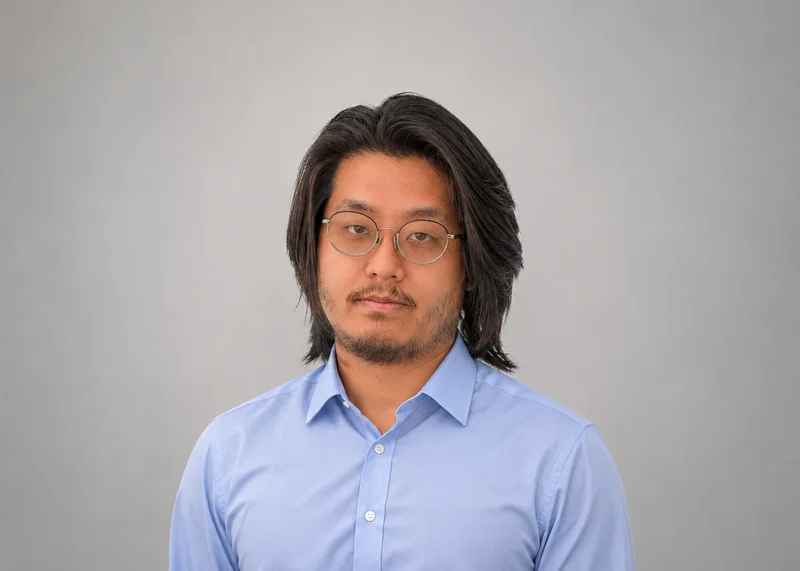
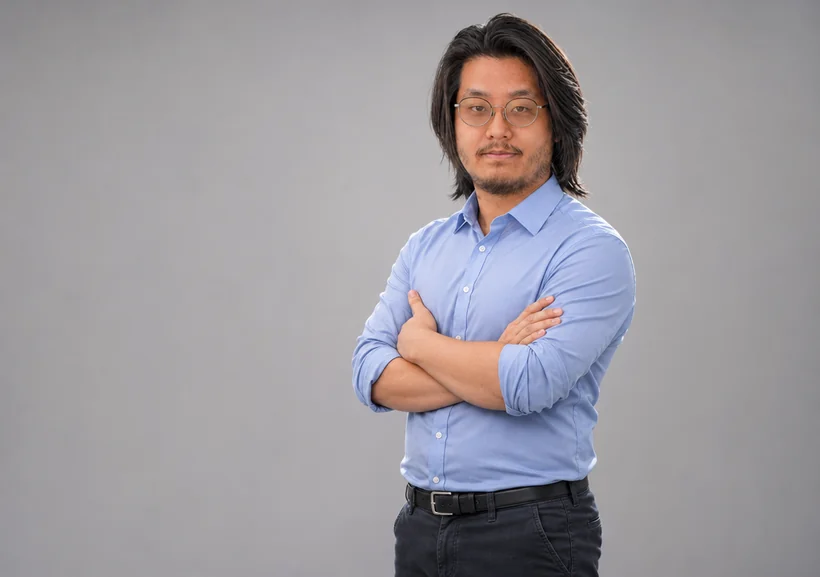
feat: new art for Hikaru's card, a stronger pose with natural proportions
This commit was detailed with Claude (Claude Code). Piece by piece:

- assets/hikaru-card-art.png: a new studio portrait made with Higgsfield (GPT
  Image 2.6, 1024x720, the art window's 1.42:1) from Hikaru's own photos: the
  current portrait and three studio shots from the Data Vault references, with
  a stock portrait used only for the pose. Three-quarter turn, arms crossed,
  calm and confident but informal, same light-blue shirt; framed from the
  thighs so the head is in natural proportion to the body.
- site/img/hikaru-art.webp: that portrait at 820x577 for the Magic frame's art
  window (TCG mode); styles.css anchors it to the top so the hair is never cut.
- design/magic-frame/prompts.md: the job id and the references used.

Plain mode's round photo (img/hikaru.webp) is unchanged. Checked on the card
in PT, EN and JA.

diff --git a/site/styles.css b/site/styles.css
@@ -464,7 +464,7 @@ html.tcg .card.mf :is(.art, .hud) {
   top: var(--a0); left: var(--al); width: calc(var(--ar) - var(--al)); height: calc(var(--a1) - var(--a0)); border: 0;
 }
 /* Hikaru's art window: a wide crop of his portrait; the round photo stays in the page (its alt) but is not painted */
-html.tcg .card.mf .hud { background: url('img/hikaru-art.webp') 50% 40% / cover; }
+html.tcg .card.mf .hud { background: url('img/hikaru-art.webp') 50% 0 / cover; }
 html.tcg .card.mf .hud :is(i, .dot) { display: none; }
 html.tcg .card.mf .circ { opacity: 0; }
 html.tcg .card.mf .role {

diff --git a/design/magic-frame/prompts.md b/design/magic-frame/prompts.md
@@ -76,3 +76,10 @@ Every text area is empty [...]; the plaques are empty engraved shapes; the art w
 ECOS, Ferrovia and IoT Safe came back with a somewhat shorter art window (about 1.55:1); the CSS follows each frame's
 own measured boxes, so they are kept. The `-full.webp` references above are from the first geometry: they still show the
 typography, not the proportions.
+
+## Hikaru's art window
+
+`site/img/hikaru-art.webp` comes from `assets/hikaru-card-art.png`, job 01a8dc6c-f229-4e3e-9d12-5f79ece5852b (1024x720,
+the art window's 1.42:1): a studio portrait in a stronger, still informal pose (three-quarter turn, arms crossed, framed
+from the thighs), generated from his own photos (the current portrait and three studio shots from the Data Vault's
+`overall-me` references) with a stock portrait used only as the pose reference.
